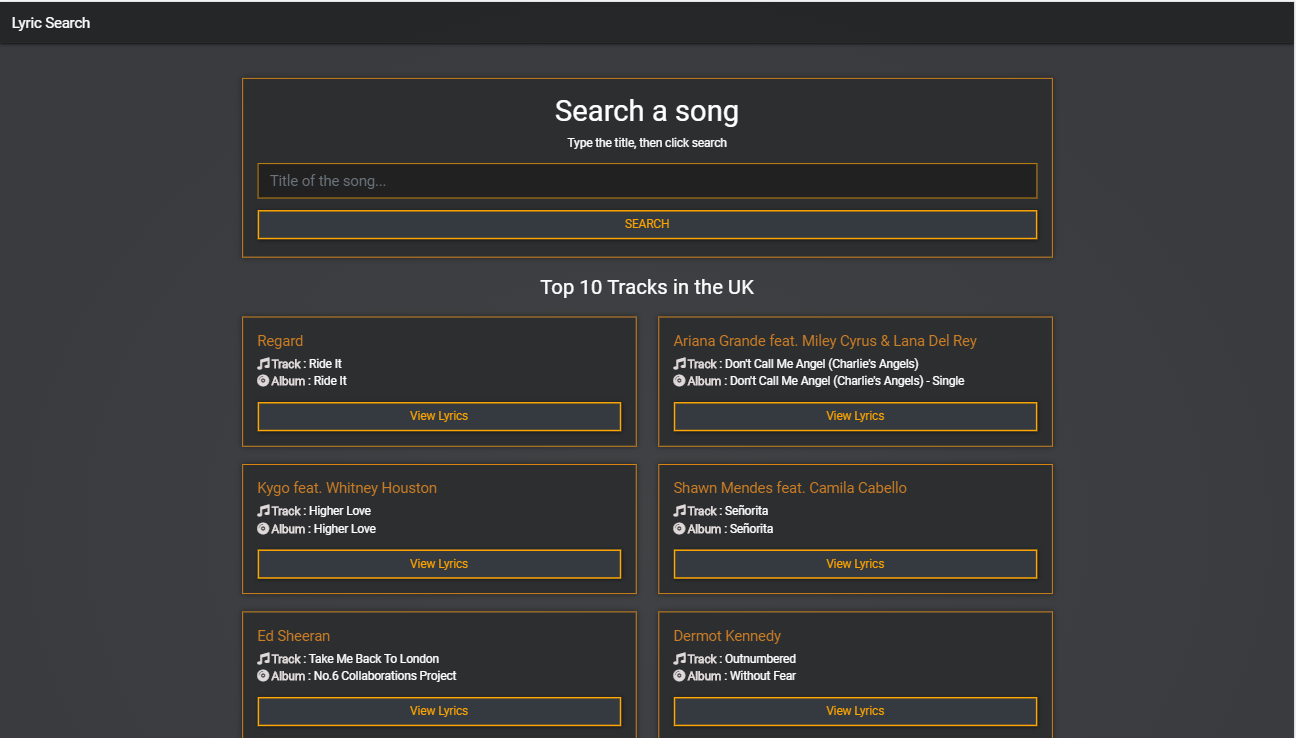
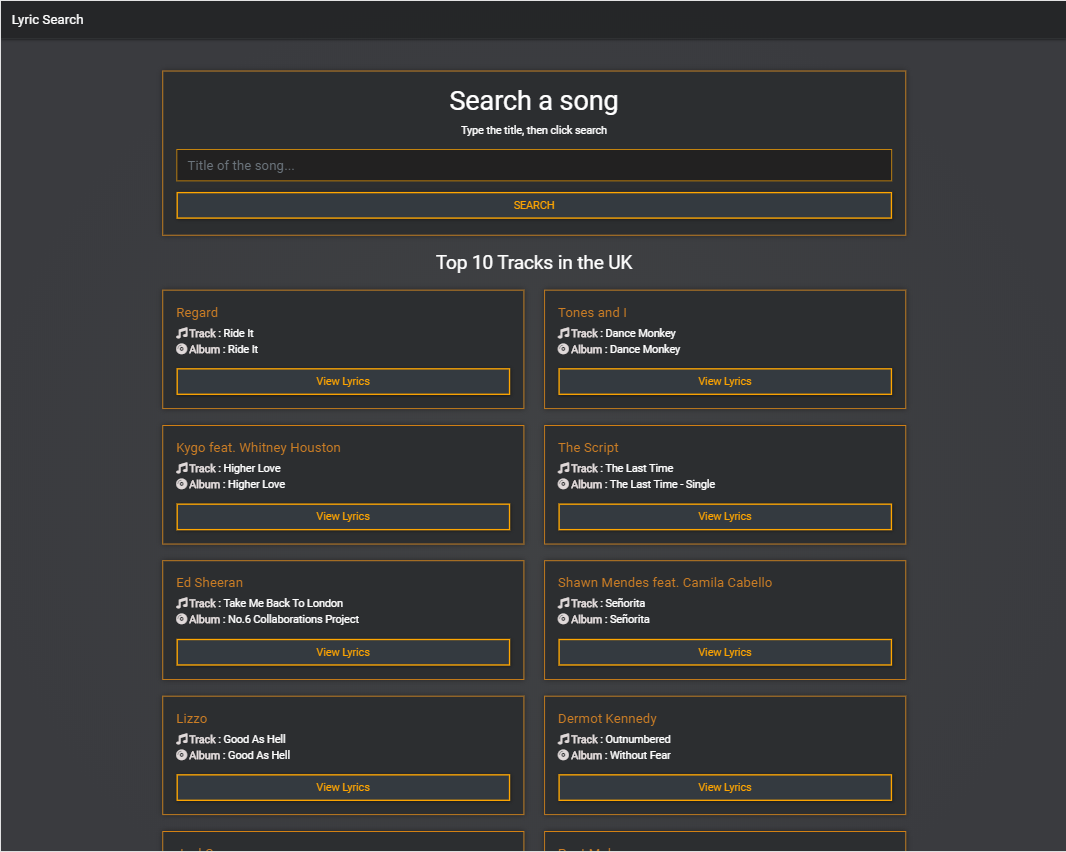
changed the shadow on the navbar. Changed the size of the cards

Changed region(s): [[0.0, 0.0, 1.0, 1.0], [0.0, 0.0, 0.0929, 0.0623]]

diff --git a/src/index.css b/src/index.css
@@ -12,7 +12,7 @@ body {
 
 /* Navbar */
 .navbar {
-  box-shadow: 0px 1px 6px rgb(63, 63, 63);
+  box-shadow: 0px 1px 3px rgb(63, 63, 63);
   opacity: 0.995;
   transition: all 0.5s;
 }

diff --git a/README.md b/README.md
@@ -4,3 +4,15 @@ A portfolio website, that holds most of my projects.
 ## Technologies used
 
 HTML, CSS, JavaScript, React and Bootstrap for React
+
+## To run in a localhost:
+
+Clone, or download the repo.
+Install Node, and NPM.
+Then run
+### npm install
+This will create a node modules folder, which will store all the dependencies needed.
+
+Lastly, run:
+### npm start
+Which will start the local server.
